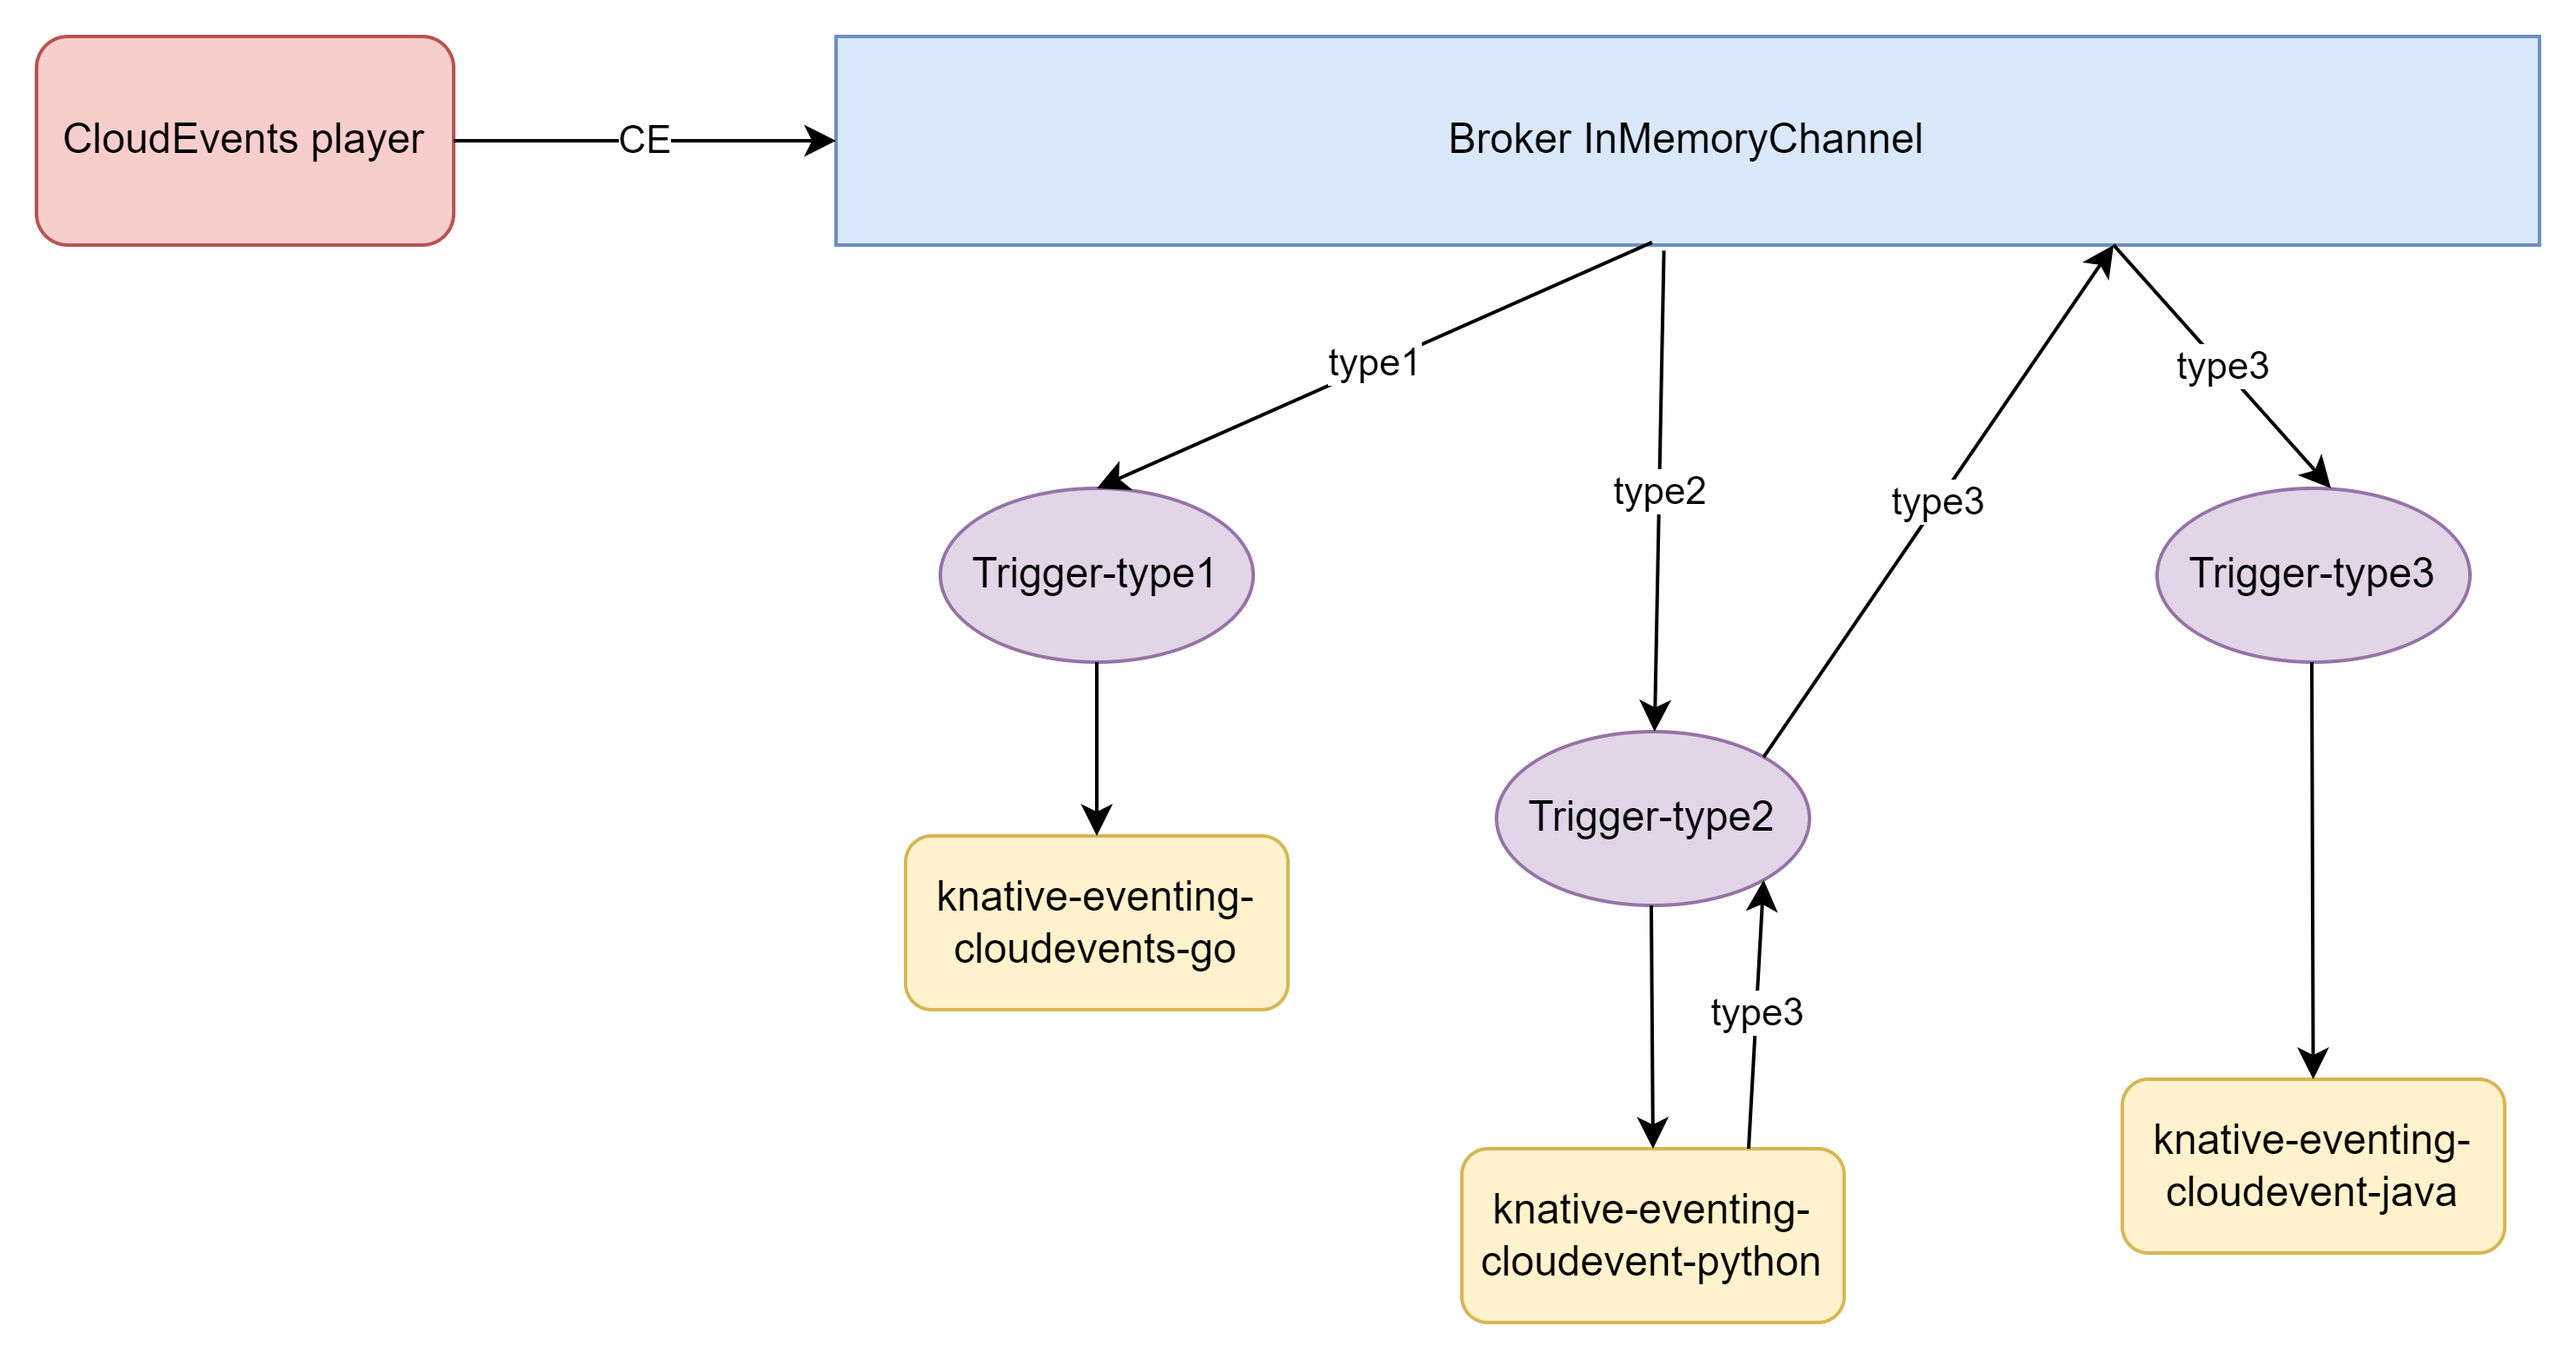
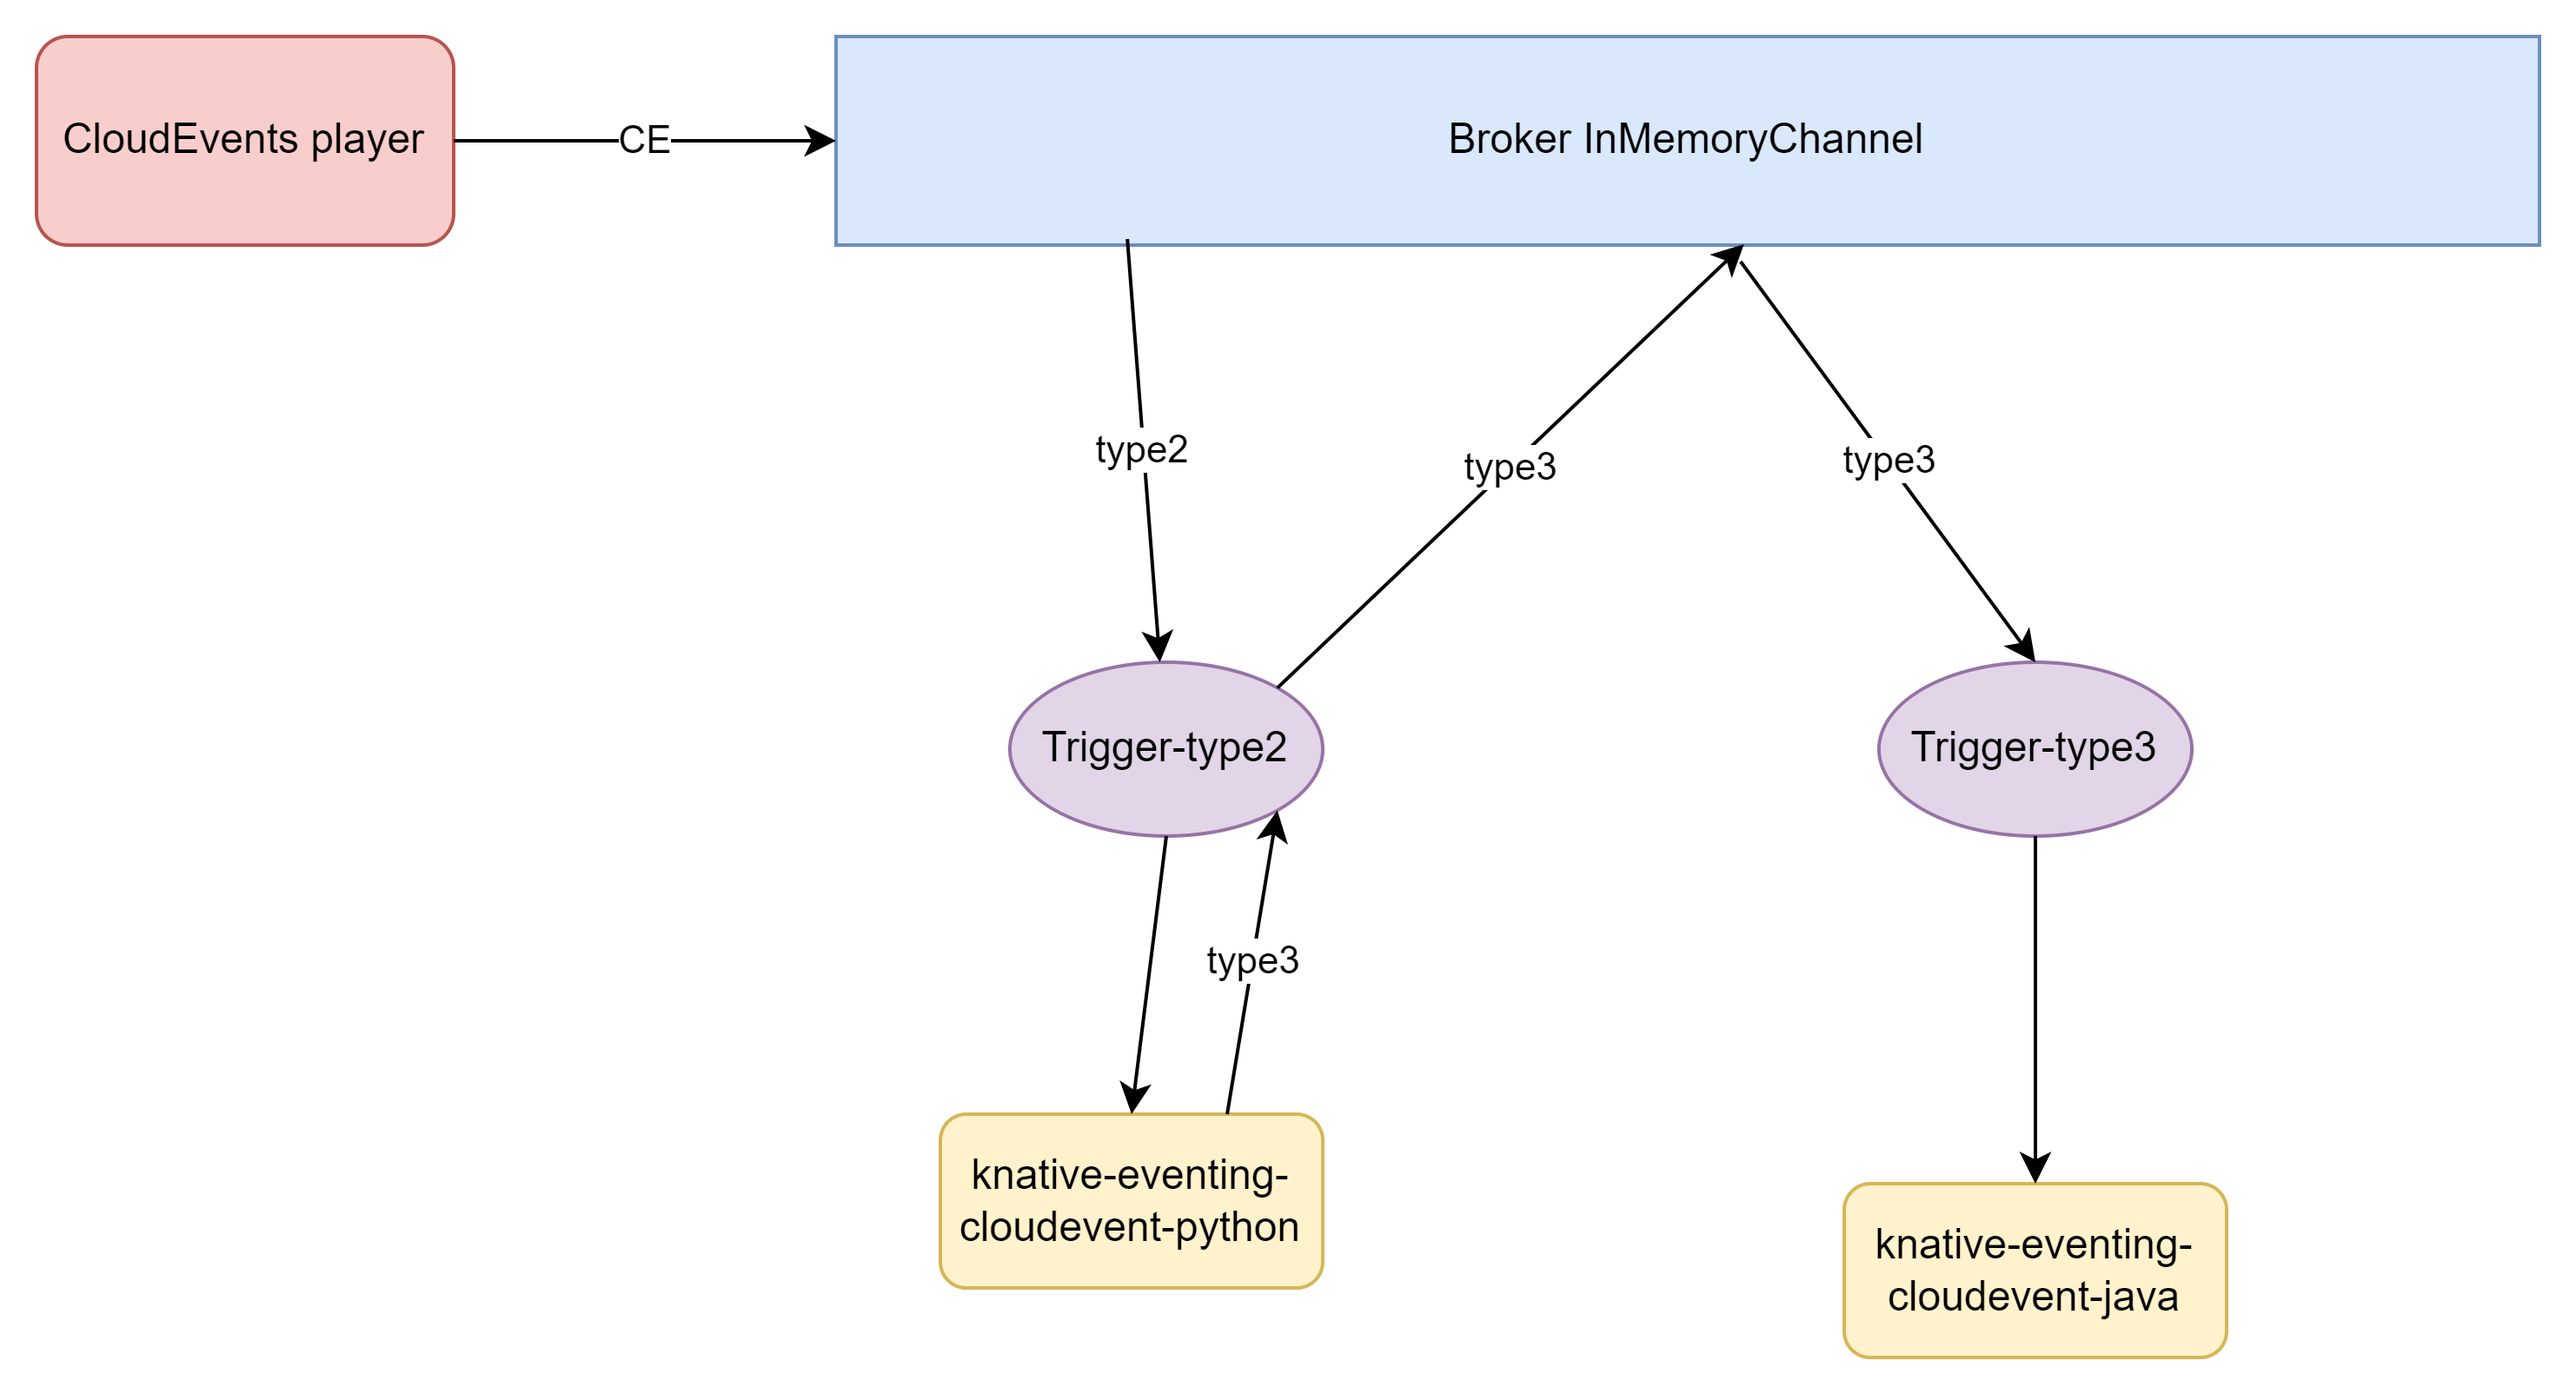
quarkus function defined

diff --git a/knative-eventing-cloudevents-quarkus/src/main/java/functions/Function.java b/knative-eventing-cloudevents-quarkus/src/main/java/functions/Function.java
@@ -3,6 +3,7 @@ package functions;
 import io.quarkus.funqy.Funq;
 import io.quarkus.funqy.knative.events.CloudEvent;
 import io.quarkus.funqy.knative.events.CloudEventBuilder;
+import lombok.val;
 
 /**
  * Your Function class
@@ -12,6 +13,7 @@ public class Function {
     /**
      * Use the Quarkus Funq extension for the function. This example
      * function simply echoes its input data.
+     * 
      * @param input a CloudEvent
      * @return a CloudEvent
      */
@@ -19,9 +21,9 @@ public class Function {
     public CloudEvent<Output> function(CloudEvent<Input> input) {
 
         // Add your business logic here
-
-        System.out.println(input);
-        Output output = new Output(input.data().getMessage());
+        val data = input.data();
+        System.out.println(data);
+        Output output = new Output("Message received of type: " + data.getType());
         return CloudEventBuilder.create().build(output);
     }
 

diff --git a/knative-eventing-cloudevents-quarkus/src/test/java/functions/FunctionTest.java b/knative-eventing-cloudevents-quarkus/src/test/java/functions/FunctionTest.java
@@ -3,7 +3,6 @@ package functions;
 import io.quarkus.funqy.knative.events.CloudEventBuilder;
 import io.quarkus.test.junit.QuarkusTest;
 import io.restassured.RestAssured;
-import org.hamcrest.CoreMatchers;
 import org.junit.jupiter.api.Assertions;
 import org.junit.jupiter.api.Test;
 
@@ -15,7 +14,8 @@ public class FunctionTest {
 
     @Test
     void testFunction() {
-        Output output = (new Function()).function(CloudEventBuilder.create().build(new Input("Hello!"))).data();
+        User user = new User(19, "Carlos");
+        Output output = (new Function()).function(CloudEventBuilder.create().build(new Input("type3", user))).data();
         Assertions.assertEquals("Hello!", output.getMessage());
     }
 

diff --git a/knative-eventing-cloudevents-quarkus/src/main/java/functions/Input.java b/knative-eventing-cloudevents-quarkus/src/main/java/functions/Input.java
@@ -1,26 +1,9 @@
 package functions;
 
+import lombok.Value;
+
+@Value
 public class Input {
-    private String message;
-
-    public Input() {}
-
-    public Input(String message) {
-        this.message = message;
-    }
-
-    public String getMessage() {
-        return message;
-    }
-
-    public void setMessage(String message) {
-        this.message = message;
-    }
-
-    @Override
-    public String toString() {
-        return "Input{" +
-                "message='" + message + '\'' +
-                '}';
-    }
+    String type;
+    User user;
 }

diff --git a/knative-eventing-cloudevents-python/func.py b/knative-eventing-cloudevents-python/func.py
@@ -3,7 +3,7 @@ import input as i
 import output as o
 import json
 #import ast
-@event
+@event(event_source="event.type2", event_type="event.type3")
 def main(context: Context):
     """
     Function template
@@ -17,6 +17,7 @@ def main(context: Context):
         data = json.loads(data)
     input = i.input_schema.load(data)
     output = o.Type3("type3",input.users[0])
+    print(output)
     return o.output_schema.dump(output)
 
 

diff --git a/knative-eventing-cloudevents-python/output.py b/knative-eventing-cloudevents-python/output.py
@@ -6,12 +6,12 @@ import marshmallow.validate
 @dataclass
 class User:
     age: int = field(metadata={"validate": marshmallow.validate.Range(min=10, max=100)})
-    name: str = field(default="")
+    name: str
     
 
 @dataclass
 class Type3:
+    type: str
     user: User  
-    type: str = field(default="type3")
 
 output_schema = marshmallow_dataclass.class_schema(Type3)()

diff --git a/knative-eventing-cloudevents-python/input.py b/knative-eventing-cloudevents-python/input.py
@@ -7,7 +7,7 @@ import marshmallow.validate
 @dataclass
 class User:
     age: int = field(metadata={"validate": marshmallow.validate.Range(min=10, max=100)})
-    name: str = field(default="")
+    name: str
     
 
 @dataclass

diff --git a/knative-eventing-cloudevents-quarkus/src/main/java/functions/User.java b/knative-eventing-cloudevents-quarkus/src/main/java/functions/User.java
@@ -1,0 +1,9 @@
+package functions;
+
+import lombok.Value;
+
+@Value
+public class User {
+    int age;
+    String name;
+}

diff --git a/knative-eventing-cloudevents-quarkus/README.md b/knative-eventing-cloudevents-quarkus/README.md
@@ -99,3 +99,16 @@ http -v ${URL} \
   Ce-Specversion:1.0 \
   message=$(whoami)
 ```
+
+
+
+# Examples
+kn func run
+kn func invoke --data '{\"type\":\"type3\",\"user\":{\"age\":15,\"name\":\"Luis\"}}'
+curl "http://localhost:8080/" -X POST \
+  -H "Content-Type: application/json" \
+  -H "Ce-SpecVersion: 1.0" \
+  -H "Ce-Type: my-type" \
+  -H "Ce-Source: cURL" \
+  -H "Ce-Id: 42" \
+  -d '{"type": "type3", "user":{"age":15,"name":"Luis"}}'

diff --git a/knative-eventing-cloudevents-python/README.md b/knative-eventing-cloudevents-python/README.md
@@ -32,3 +32,11 @@ python test_func.py
 # Examples
 kn func run
 kn func invoke --data '{\"type\":\"type2\",\"users\":[{\"age\":15,\"name\":\"Luis\"}]}'
+
+curl "http://localhost:8080/" -X POST \
+  -H "Content-Type: application/json" \
+  -H "Ce-SpecVersion: 1.0" \
+  -H "Ce-Type: my-type" \
+  -H "Ce-Source: cURL" \
+  -H "Ce-Id: 42" \
+  -d '{"type": "type2", "users":[{"age":15,"name":"Luis"}]}'
